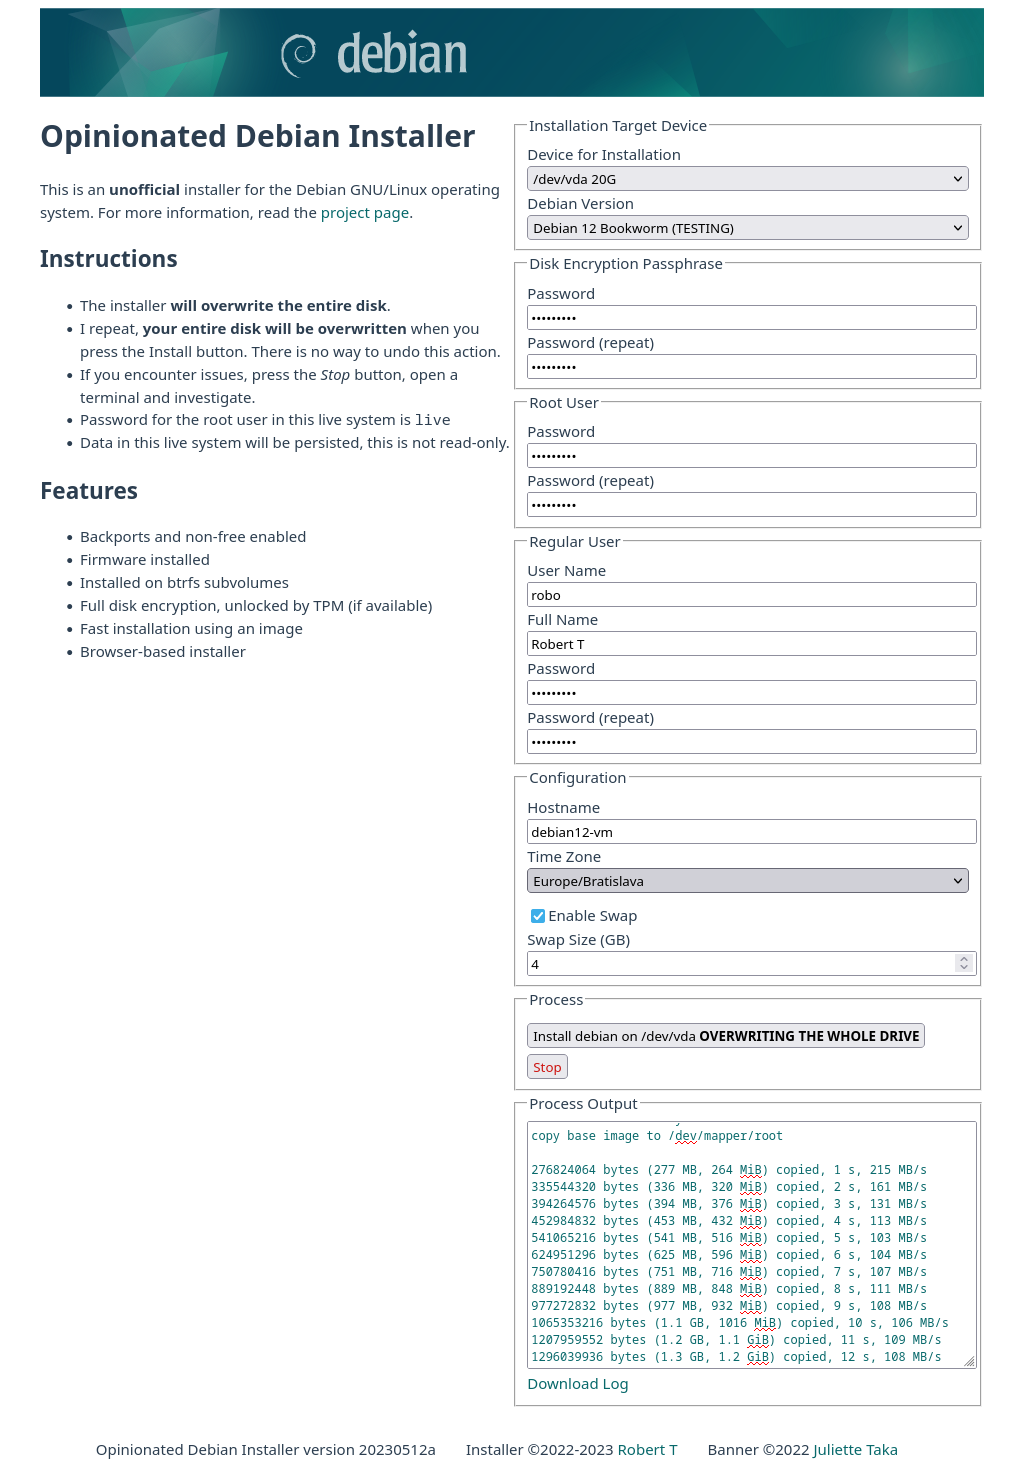
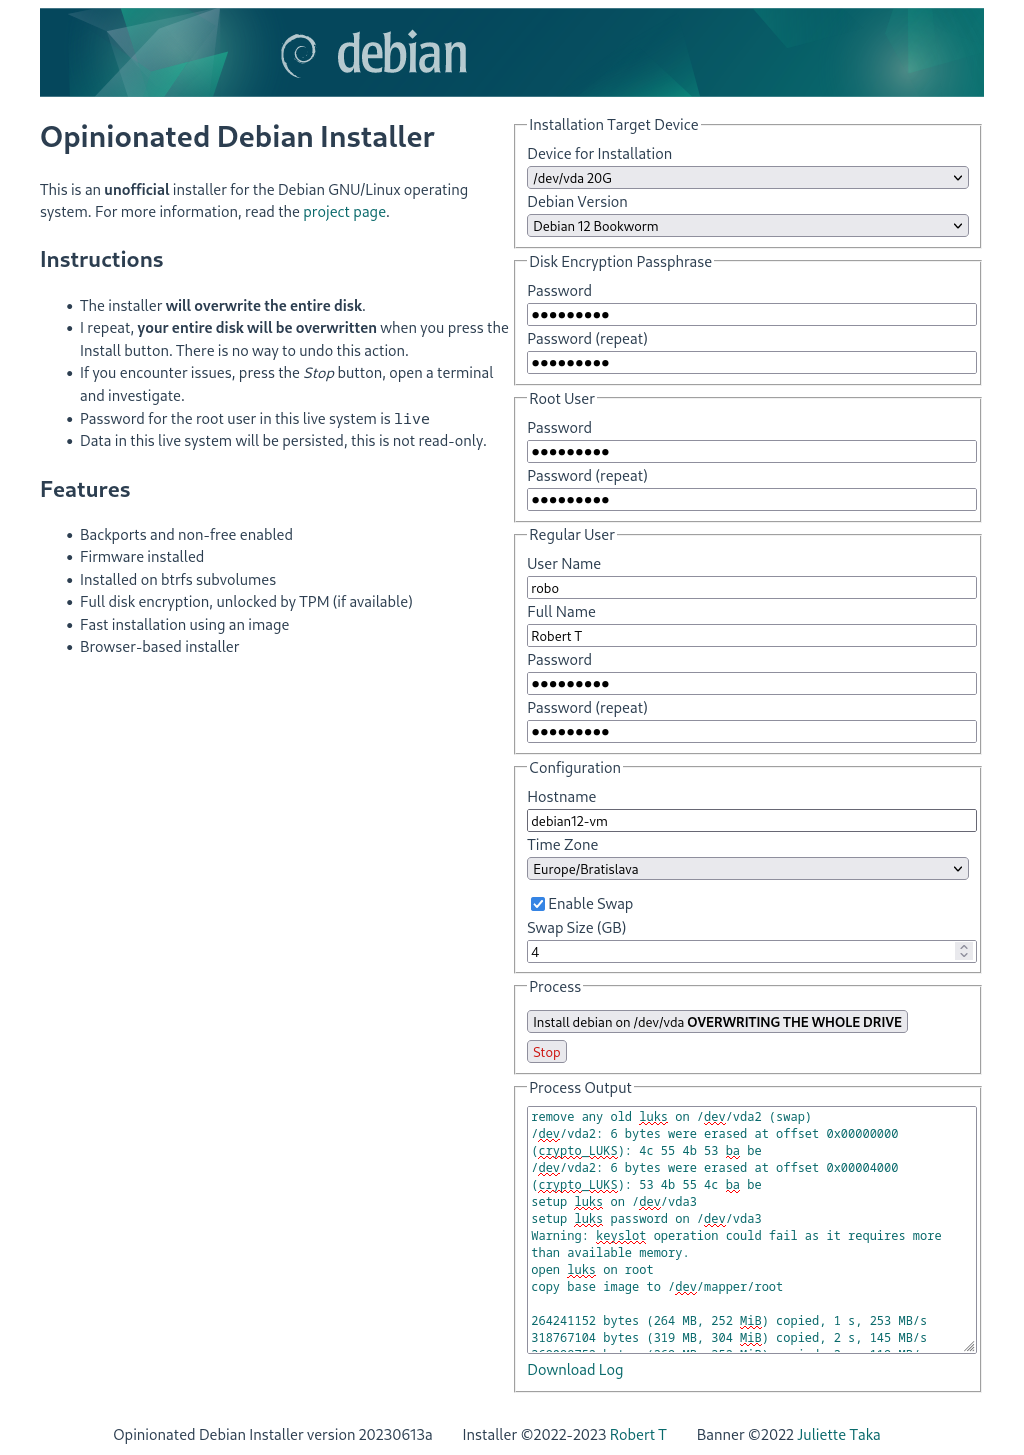
differentiate between read-only disks and disks currently in use
also: new gnome image

Changed region(s): [[0.0312, 0.0309, 0.9688, 0.9897], [0.0938, 0.9588, 0.4062, 0.9897]]

diff --git a/frontend/src/App.vue b/frontend/src/App.vue
@@ -81,13 +81,19 @@ export default {
             console.debug(response);
             this.block_devices = response.blockdevices;
             for(const device of this.block_devices) {
+              device.in_use = false;
               if(device.mountpoint) {
-                device.ro = true;
+                device.in_use = true;
               }
               for(const child of device.children) {
                 if(child.mountpoint) {
-                  device.ro = true;
+                  device.in_use = true;
                 }
+              }
+              if(device.ro || device.in_use) {
+                device.available = false;
+              } else {
+                device.available = true;
               }
             }
           });
@@ -221,8 +227,8 @@ export default {
 
         <label for="DISK">Device for Installation</label>
         <select :disabled="block_devices.length==0 || running" id="DISK"  v-model="installer.DISK">
-          <option v-for="item in block_devices" :value="item.path" :disabled="item.ro">
-            {{item.path}} {{item.model}} {{item.size}} {{item.ro ? '(Read Only)' : ''}}
+          <option v-for="item in block_devices" :value="item.path" :disabled="!item.available">
+            {{item.path}} {{item.model}} {{item.size}} {{item.ro ? '(Read Only)' : ''}} {{item.in_use ? '(In Use)' : ''}}
           </option>
         </select>
         <label for="DEBIAN_VERSION">Debian Version</label>
@@ -288,7 +294,7 @@ export default {
   </main>
 
   <footer>
-    <span>Opinionated Debian Installer version 20230601a</span>
+    <span>Opinionated Debian Installer version 20230613a</span>
     <span>Installer &copy;2022-2023 <a href="https://github.com/r0b0/debian-installer">Robert T</a></span>
     <span>Banner &copy;2022 <a href="https://github.com/julietteTaka/Emerald">Juliette Taka</a></span>
   </footer>

diff --git a/README.md b/README.md
@@ -22,7 +22,7 @@ Our opinions of what a modern installation of Debian should look like in 2023 ar
 | Desktop environment | Download                                                                                                                                                                                                                | SHA-256 Checksum                                                        |
 |---------------------|-------------------------------------------------------------------------------------------------------------------------------------------------------------------------------------------------------------------------|-------------------------------------------------------------------------|
 | KDE Plasma          | [opinionated-debian-installer-bookworm-kde-plasma-20230601a.img (4.2GB)](https://objectstorage.eu-frankfurt-1.oraclecloud.com/n/fr2rf1wke5iq/b/public/o/opinionated-debian-installer-bookworm-kde-plasma-20230601a.img) | a8dc3aff 1ab9dda8 268e04a5 cc53289b af1babcd b4267819 c39f0dd2 c48bce18 |
-| Gnome               | [opinionated-debian-installer-bookworm-gnome-20230513a.img (3.3GB)](https://objectstorage.eu-frankfurt-1.oraclecloud.com/n/fr2rf1wke5iq/b/public/o/opinionated-debian-installer-bookworm-gnome-20230513a.img)           | 06e4c75f a63975ef 304a0d0e 08f2fe99 fd377951 2d4053f7 a4545c5a 00cf1425 |
+| Gnome               | [opinionated-debian-installer-bookworm-gnome-20230613a.img (3.3GB)](https://objectstorage.eu-frankfurt-1.oraclecloud.com/n/fr2rf1wke5iq/b/public/o/opinionated-debian-installer-bookworm-gnome-20230613a.img)           | 4811b1ea b65f127f 40f279b3 b6909daf 124d2fe0 fce8d9e0 d0daeb4b 065639bb |
 | Xfce                | [opinionated-debian-installer-bookworm-xfce-20230513a.img (3.1GB)](https://objectstorage.eu-frankfurt-1.oraclecloud.com/n/fr2rf1wke5iq/b/public/o/opinionated-debian-installer-bookworm-xfce-20230513a.img)             | f87e0cc0 d9c6483b 6a0319cb 977df562 0acc7722 6907cc2c 43f72878 f3908789 |
 
 ## Instructions
